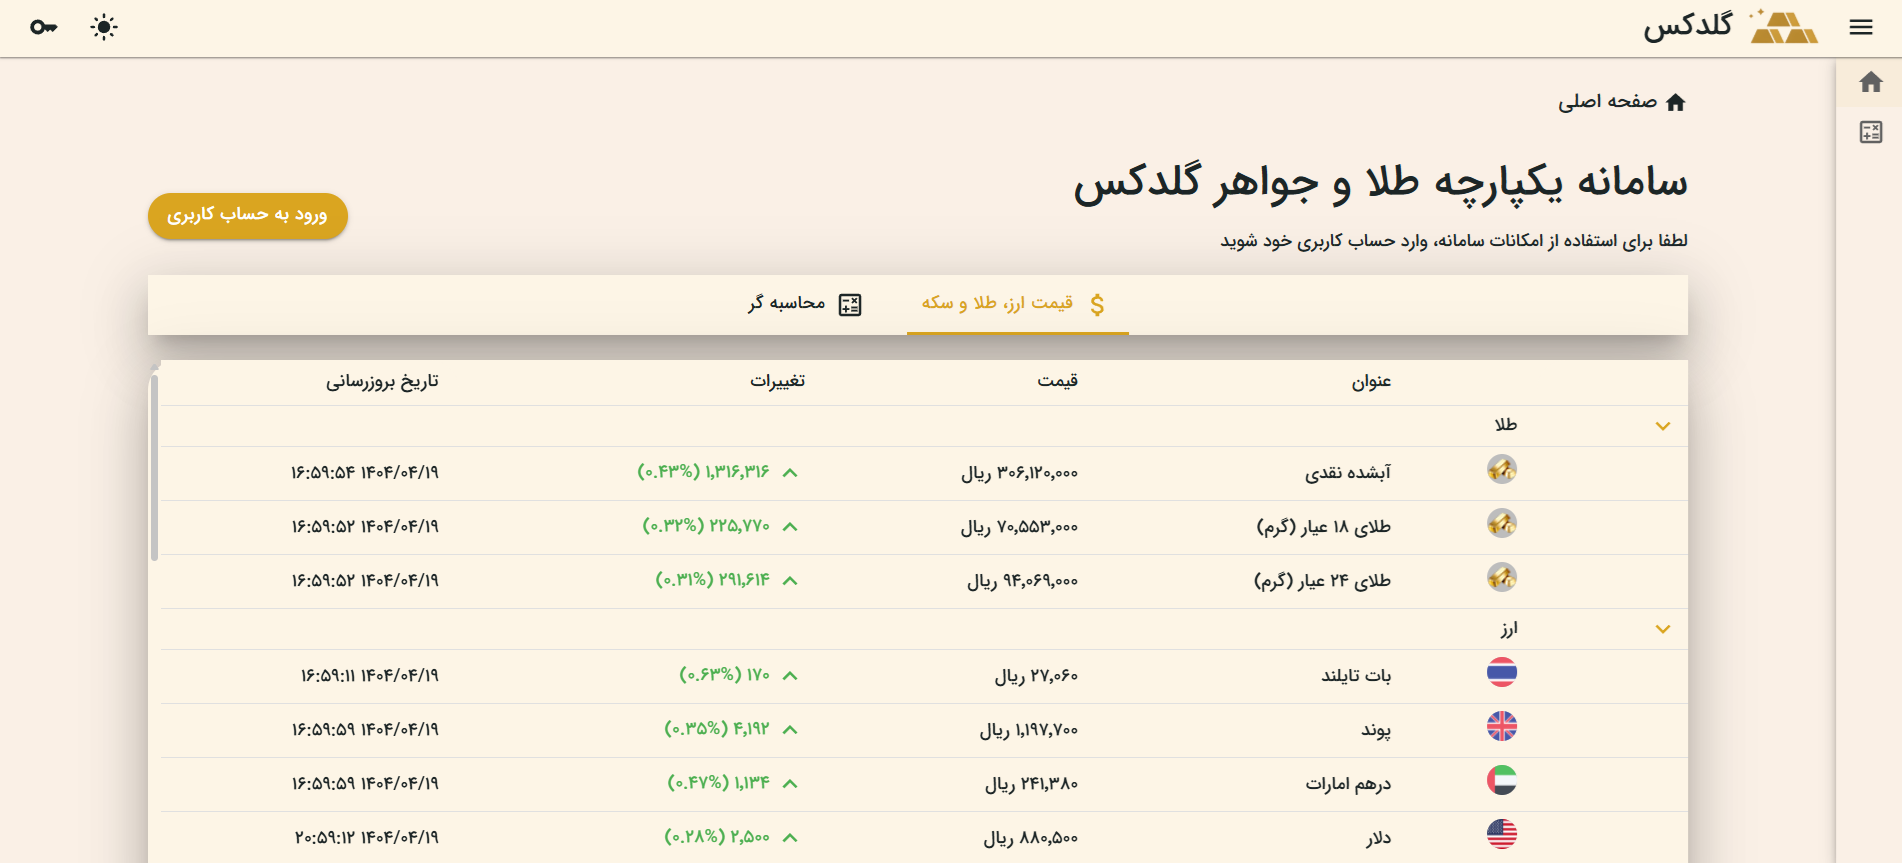
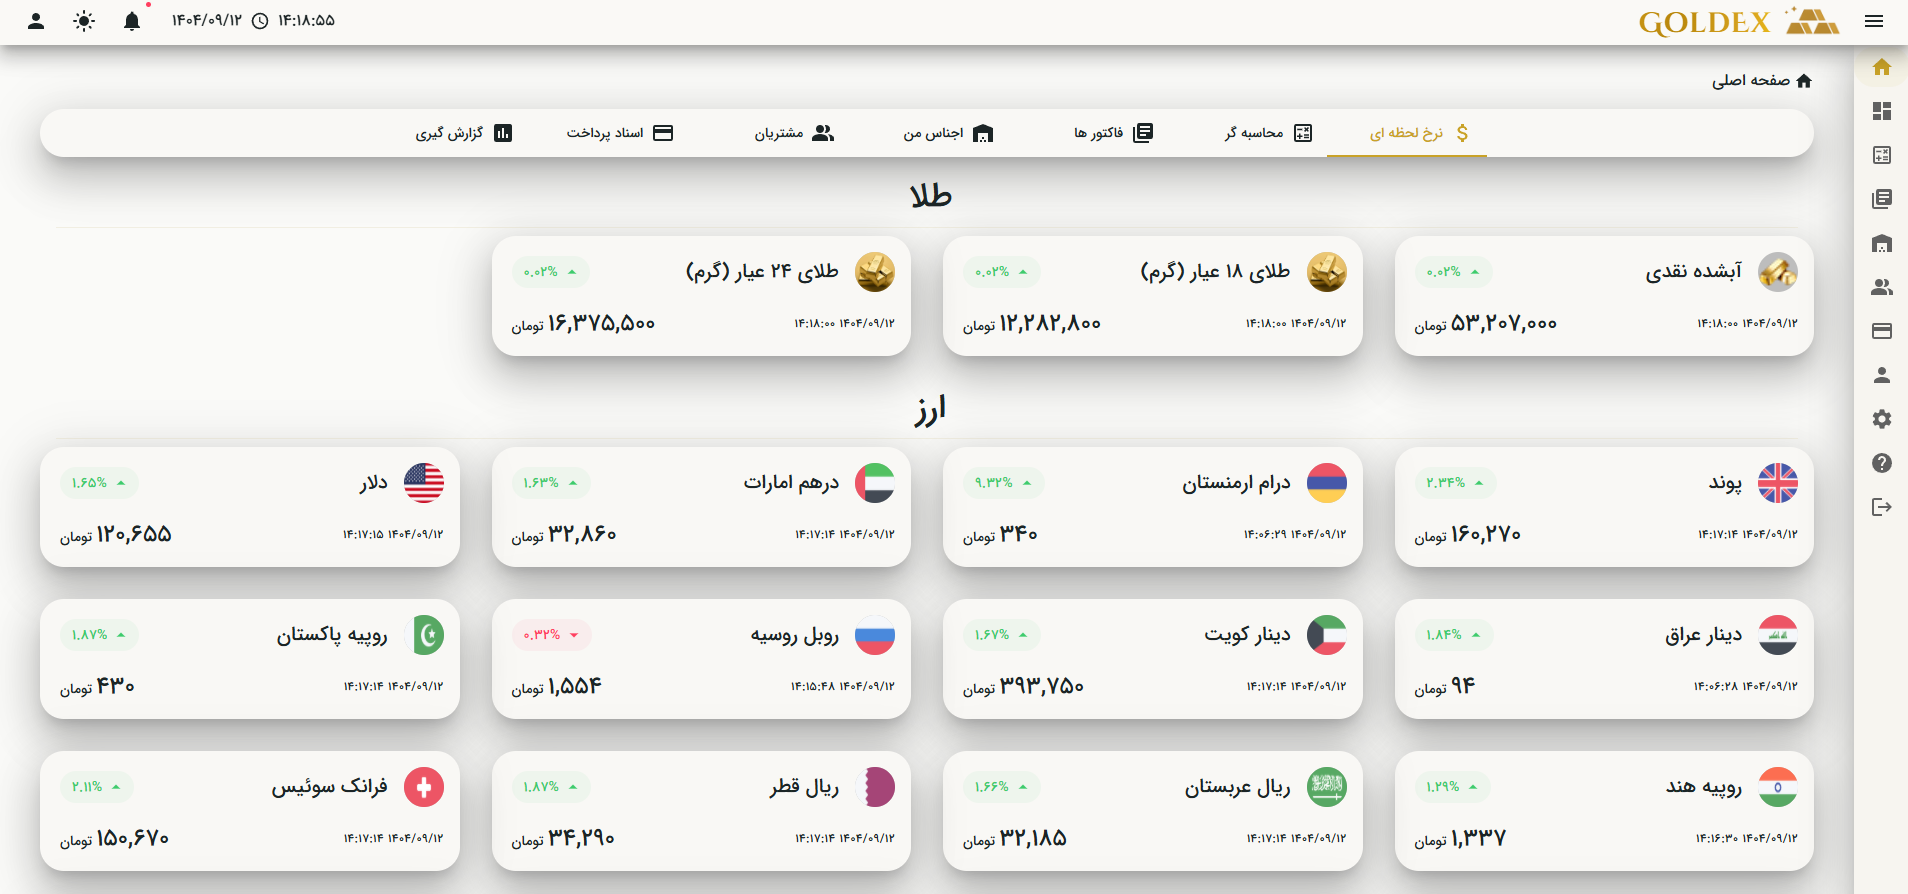
Enhanced pwa functionality

Changed region(s): [[0.0, 0.0, 1.0, 1.0], [0.4653, 0.4519, 0.4963, 0.482]]

diff --git a/src/App/Client/GoldEx.Client/wwwroot/sw-events.js b/src/App/Client/GoldEx.Client/wwwroot/sw-events.js
@@ -3,15 +3,13 @@
         if ('serviceWorker' in navigator) {
             navigator.serviceWorker.register('service-worker.js')
                 .then(reg => {
-                    // Listen for new SW installing
                     reg.addEventListener('updatefound', () => {
                         const installingWorker = reg.installing;
                         if (installingWorker) {
-                            DotNet.invokeMethodAsync('GoldEx.Client.Components', 'OnServiceWorkerInstalling');
+                            DotNet.invokeMethodAsync('Artemis.Shop.Components', 'OnServiceWorkerInstalling');
                         }
                     });
 
-                    // Also listen for messages from the SW
                     navigator.serviceWorker.addEventListener('message', event => {
                         if (event.data?.type === 'NEW_VERSION_AVAILABLE') {
                             window.location.reload();
@@ -19,5 +17,56 @@
                     });
                 });
         }
+
+        // ---- PWA install state ----
+        window.deferredInstallPrompt = null;
+        window.canInstallPwa = false;
+
+        window.addEventListener('beforeinstallprompt', function (e) {
+            e.preventDefault();
+            window.deferredInstallPrompt = e;
+            window.canInstallPwa = true;
+        });
     }
+};
+
+// آیا الان میتونیم نصب کنیم؟
+window.getPwaState = function () {
+    return !!window.canInstallPwa;
+};
+
+// اجرا کردن نصب
+window.installPwa = async function () {
+    if (!window.deferredInstallPrompt) {
+        return false;
+    }
+
+    const promptEvent = window.deferredInstallPrompt;
+    window.deferredInstallPrompt = null;
+    window.canInstallPwa = false;
+
+    await promptEvent.prompt();
+    const result = await promptEvent.userChoice;
+    return result.outcome === 'accepted';
+};
+
+// چک کردن اینکه همین پنجره PWA هست یا نه
+window.isPwaMode = function () {
+    // iOS
+    if (window.navigator.standalone === true) {
+        return true;
+    }
+
+    // سایر مرورگرها
+    if (window.matchMedia && window.matchMedia('(display-mode: standalone)').matches) {
+        return true;
+    }
+    if (window.matchMedia && window.matchMedia('(display-mode: fullscreen)').matches) {
+        return true;
+    }
+    if (window.matchMedia && window.matchMedia('(display-mode: minimal-ui)').matches) {
+        return true;
+    }
+
+    return false;
 };